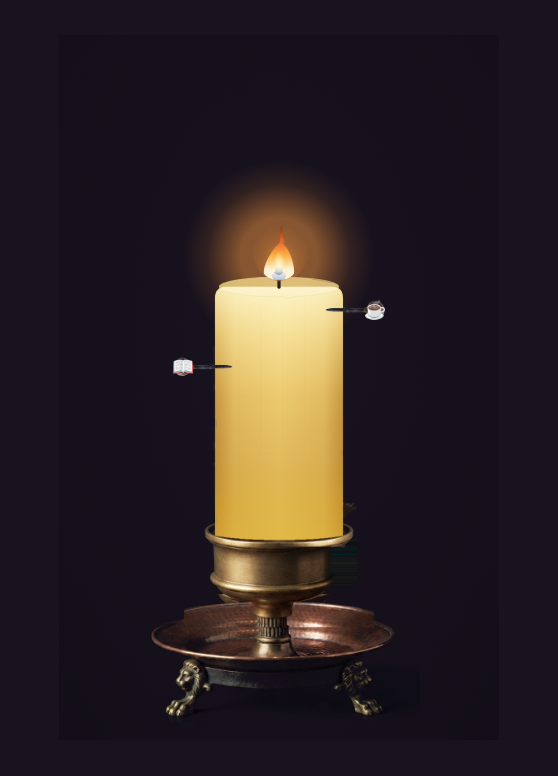
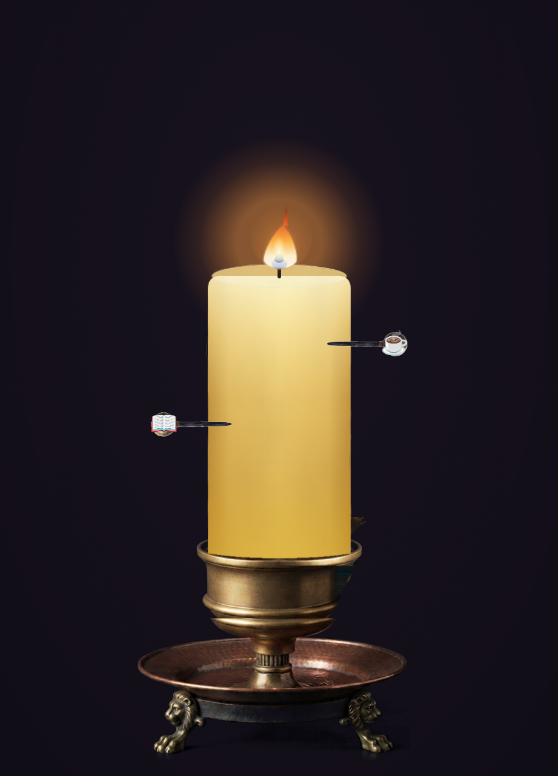
Candle: remake the landing-page card with the fixed base
candle-card.png is a still picture, so it kept showing the squared notches
in the copper dish long after the page itself stopped. Re-rendered from the
current page, which now draws the clean base, with the same two pinned
alarms and the same 558x776 framing as before.

Bumps the cache tag on the landing page from v=5 to v=6 so browsers fetch
the new picture instead of the one they already have.

Claude-Session: https://claude.ai/code/session_01Q1zdGyXg5GFAuw9Sy2hsyq

Changed region(s): [[0.2437, 0.1856, 0.7312, 0.9897]]

diff --git a/index.html b/index.html
@@ -183,7 +183,7 @@
 
   <div id="cards" class="dice6">
     <a class="card" href="candler/" data-added="2026-07-28">
-      <img src="candler/candle-card.png?v=5" alt="a lit candle">
+      <img src="candler/candle-card.png?v=6" alt="a lit candle">
       <span class="new-dot" aria-hidden="true"></span>
     </a>
     <a class="card" href="roller/" data-added="2026-07-28">
